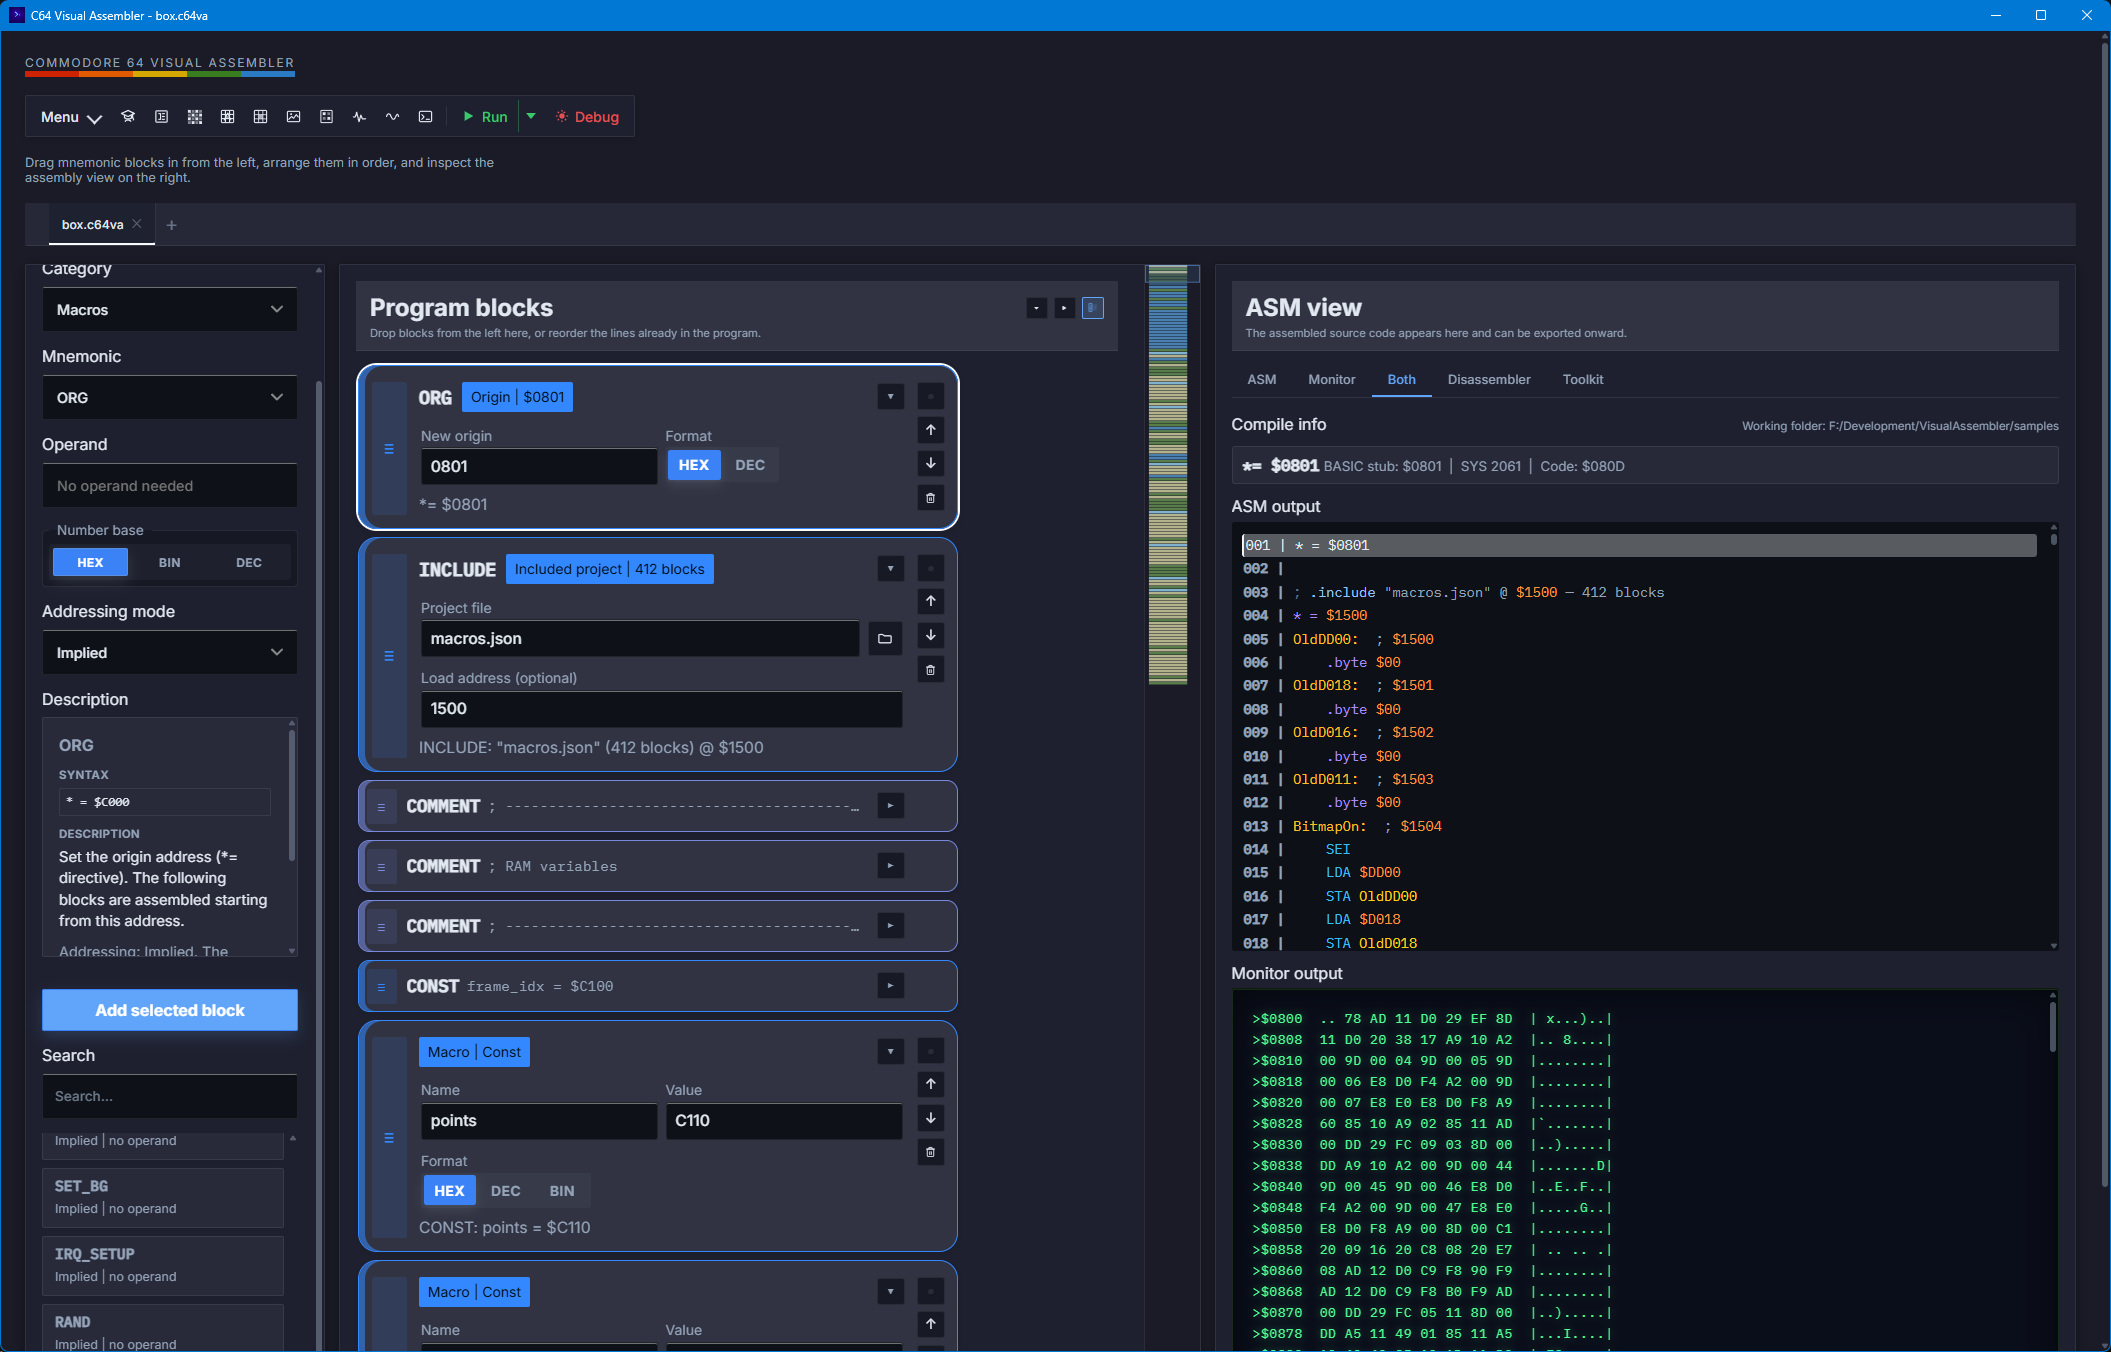
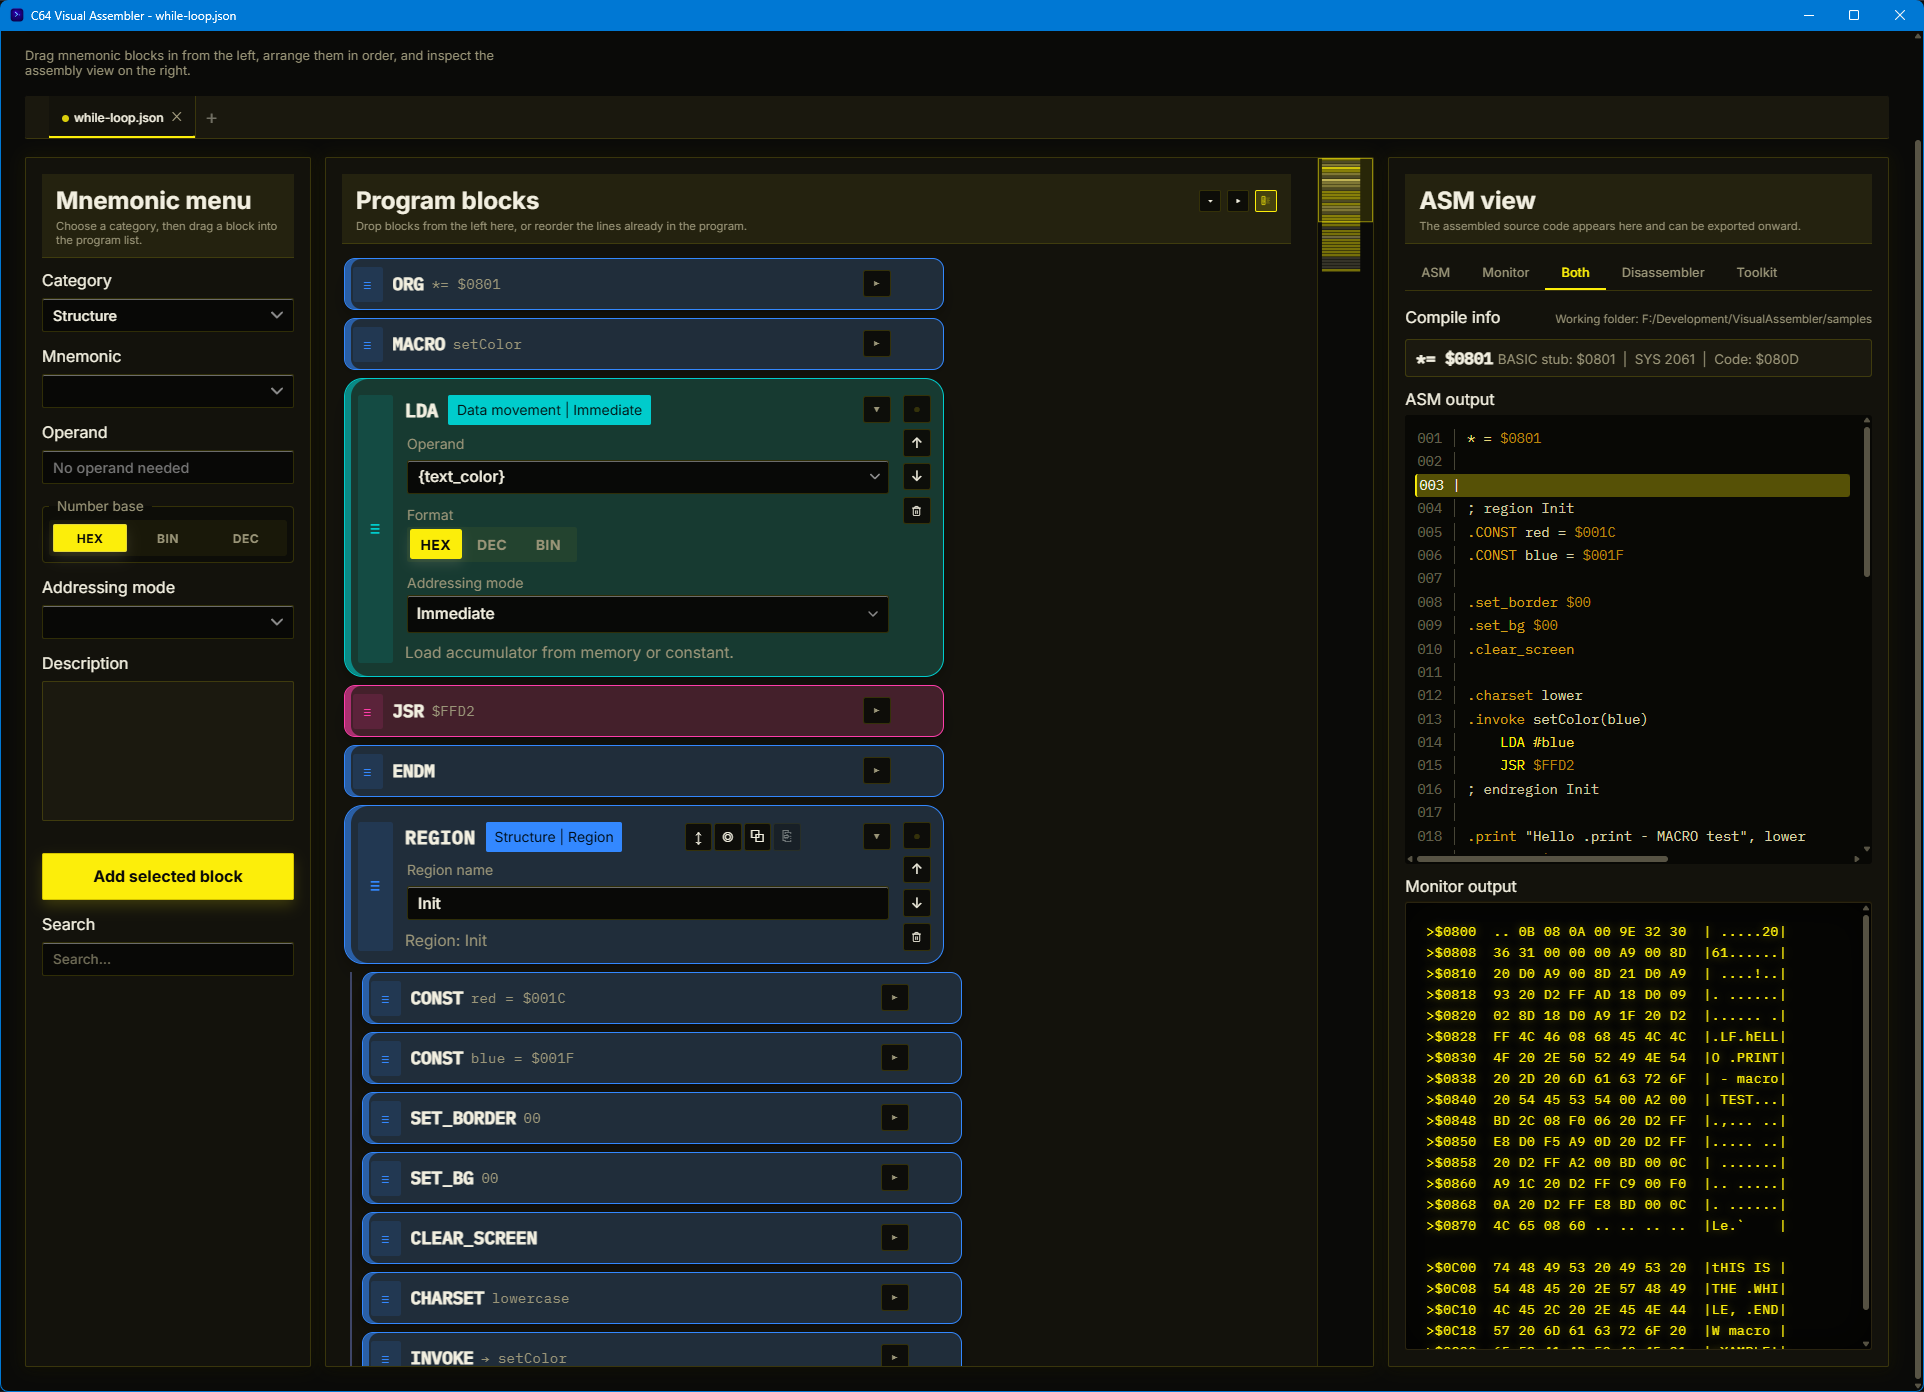
Improve ASM multi-highlight and line number UI
Refactors ASM highlighting to support multiple selected blocks at once by letting `applyAsmHighlight` accept an ID list, build a merged highlighted line set, and keep scroll behavior stable with an explicit scroll target fallback. It also updates rendering to reapply highlights from `selectedBlockIds` after ASM output refreshes.

Line-number tokenization now separates the numeric part from the ` | ` separator for finer styling, and CSS softens line-number emphasis while rendering the separator as a subtle vertical rule. The What’s New entry text in `index.html` was also adjusted.

diff --git a/www/app.js b/www/app.js
@@ -28094,10 +28094,10 @@ function syntaxHighlightAsmLine(line) {
 
   let prefix = "";
   let content = line;
-  const lineNoMatch = line.match(/^(\d+\s\|\s)(.*)$/);
+  const lineNoMatch = line.match(/^(\d+)(\s\|\s)(.*)$/);
   if (lineNoMatch) {
-    prefix = '<span class="asm-tok-lineno">' + esc(lineNoMatch[1]) + '</span>';
-    content = lineNoMatch[2];
+    prefix = '<span class="asm-tok-lineno">' + esc(lineNoMatch[1]) + '<span class="asm-tok-lineno-sep">' + esc(lineNoMatch[2]) + '</span></span>';
+    content = lineNoMatch[3];
   }
 
   // Origin: * = $xxxx  or  *= $xxxx
@@ -28200,17 +28200,25 @@ function scrollAsmOutputToLine(targetLine) {
   asmOutput.scrollTop = Math.max(0, (targetLine - 3) * lineHeight);
 }
 
-function applyAsmHighlight(blockId) {
-  const rangeInfo = asmBlockRanges[blockId];
+function applyAsmHighlight(blockIds, scrollToId = null) {
+  const ids = typeof blockIds === "string" ? [blockIds] : [...blockIds];
   const text = asmDisplayText || asmPlainText;
-  if (!rangeInfo || !text) return;
+  if (!text) return;
 
-  const { firstLine, lastLine } = rangeInfo;
+  const highlighted = new Set();
+  ids.forEach((id) => {
+    const range = asmBlockRanges[id];
+    if (!range) return;
+    for (let i = range.firstLine; i <= range.lastLine; i++) highlighted.add(i);
+  });
+  const scrollRange = asmBlockRanges[scrollToId ?? ids[0]];
+
+  const prevScrollTop = asmOutput.scrollTop;
   const lines = text.split("\n");
 
   asmOutput.innerHTML = "";
   lines.forEach((line, i) => {
-    const isHighlighted = i >= firstLine && i <= lastLine;
+    const isHighlighted = highlighted.has(i);
     if (isHighlighted) {
       const span = document.createElement("span");
       span.className = "asm-line-highlight";
@@ -28227,7 +28235,7 @@ function applyAsmHighlight(blockId) {
   });
 
   const lineHeight = parseFloat(getComputedStyle(asmOutput).lineHeight) || 18;
-  asmOutput.scrollTop = Math.max(0, (firstLine - 3) * lineHeight);
+  asmOutput.scrollTop = scrollRange ? Math.max(0, (scrollRange.firstLine - 3) * lineHeight) : prevScrollTop;
 }
 
 function selectBlockInAsm(blockId, event = null, preserveSelection = false) {
@@ -28239,9 +28247,9 @@ function selectBlockInAsm(blockId, event = null, preserveSelection = false) {
   // Highlight the block card
   _renderBlockSelection();
   const blockNode = programList.querySelector(`[data-block-id="${blockId}"]`);
-  if (blockNode) blockNode.classList.add("asm-block--selected");
+  if (blockNode && selectedBlockIds.has(blockId)) blockNode.classList.add("asm-block--selected");
 
-  applyAsmHighlight(blockId);
+  applyAsmHighlight(preserveSelection ? selectedBlockIds : [blockId], blockId);
   _syncPaletteToBlock(blockId);
 }
 
@@ -28828,8 +28836,8 @@ function renderAsmOutput() {
   asmDisplayText = withAsmLineNumbers(asmText);
   asmOutput.innerHTML = highlightAsmHtml(asmDisplayText);
 
-  if (selectedBlockId && asmBlockRanges[selectedBlockId]) {
-    applyAsmHighlight(selectedBlockId);
+  if ([...selectedBlockIds].some(id => asmBlockRanges[id])) {
+    applyAsmHighlight(selectedBlockIds);
   }
 
   renderMonitorOutput();

diff --git a/www/index.html b/www/index.html
@@ -1134,10 +1134,7 @@ PRINTABLE CHARACTERS
           <strong>Improved: custom macro highlighting in Expert mode</strong> &mdash; the macro name after <code>.macro</code> / <code>.invoke</code> / <code>.call</code> (and Kick-style <code>:name()</code> calls) has its own colour, as do the <code>{param}</code> substitutions and the parameter names in the <code>.macro</code> header, in every theme.
         </li>
         <li>
-          <strong>Improved: About dialog</strong> &mdash; a wider two-column layout with grouped project, license and credit links, and the Ultimate Basic banner now has a transparent background.
-        </li>
-        <li>
-          <strong>New: Web64 section</strong> on the product site (c64va.tech), and an updated <code>macro-with-parameter</code> sample using the <code>.macro setColor(color)</code> form.
+          <strong>Improved: <code>macro-with-parameter</code> sample using the <code>.macro setColor(color)</code> form.
         </li>
       </ul>
       <button id="whats-new-close" class="primary" type="button">OK</button>

diff --git a/www/style.css b/www/style.css
@@ -2314,11 +2314,16 @@ button:focus-visible,
 }
 
 .asm-tok-lineno {
-  color: var(--output-text);
-  text-shadow: 0 0 0.5px rgba(255, 255, 255, 0.25);
-  font-weight: 600;
-  opacity: 1;
+  color: color-mix(in srgb, var(--output-text) 42%, transparent);
+  font-weight: 400;
   user-select: none;
+}
+
+.asm-tok-lineno-sep {
+  color: transparent;
+  background: linear-gradient(
+    color-mix(in srgb, var(--output-text) 30%, transparent),
+    color-mix(in srgb, var(--output-text) 30%, transparent)) center / 1px 100% no-repeat;
 }
 
 .drag-handle {
